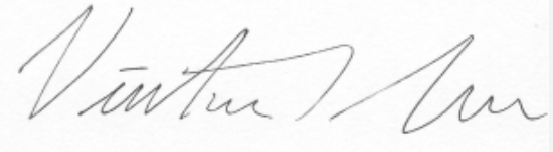
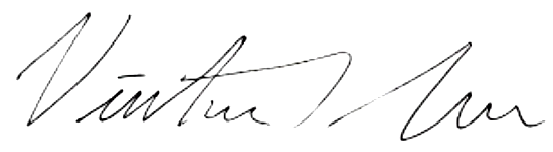
Finish Division of Labour page

Changed region(s): [[0.123, 0.1842, 1.0, 0.9211], [0.0307, 0.0263, 0.2459, 0.8421]]

diff --git a/Deliverable1/SRS.tex b/Deliverable1/SRS.tex
@@ -564,7 +564,14 @@ The functions outlined below are assumed to be vital to the proper functionality
 
 \begin{tabular}{l c r}
     \textbf{Name} & \textbf{Work Completed} & \textbf{Signature} \\
-    Victor Velechovsky & Functional Requirements & \includegraphics[scale=0.2]{Vic-Sig} \\
+    Kunal Shah & Non-Functional Requirements & 
+    \includegraphics[scale=0.2]{Kunal-Sig} \\
+    Gabriel Castagner & Introduction & 
+    \includegraphics[scale=0.2]{Gabe-Sig} \\
+    Victor Velechovsky & Functional Requirements & 
+    \includegraphics[scale=0.3]{Vic-Sig} \\
+    Josh Mitchell & Overall Description & 
+    \includegraphics[scale=0.2]{Josh-Sig} \\
 \end{tabular}
 
 
